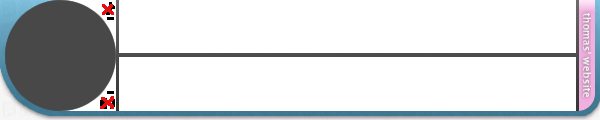
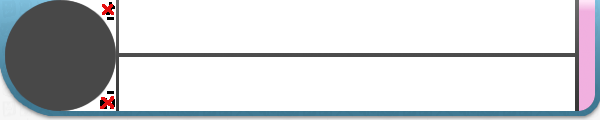
2026 REDESIGN PART 3. OKAY I AM DILLY DALLYING TOO MUCH HELP

Changed region(s): [[0.96, 0.1, 0.99, 0.45], [0.96, 0.475, 0.99, 0.8]]

diff --git a/blog/index.html b/blog/index.html
@@ -1,7 +1,7 @@
 <!DOCTYPE html>
 <html lang="en">
   <head>
-    <title>Blog - Thomas' Website</title>
+    <title>Blog</title>
     <link rel="stylesheet" href="../css/pool.css">
     <bgsound src="../midi/blog.mid" loop="-1"></bgsound>
     <meta id="music" name="music" content="../js/blog.mp3"/>
@@ -21,9 +21,6 @@
   <body>
     <div class="eated">
       <div id="oldheader" class="oldheader">
-        <div id="oldtitle" class="oldtitle">
-          <h1>Thomas' Website</h1>
-        </div>
         <table id="oldquicklinks" class="oldquicklinks">
           <tbody>
             <tr>
@@ -77,12 +74,23 @@
           <tbody>
             <tr>
               <td class="blog">
-                <h2>TEST POST PLEASE IGNORE 2: Lunatea's Veil</h2>
-                <h4>Posted on 04/05/2026</h4>
+                <h2>TEST POST PLEASE IGNORE 3: Oh God I Haven't Really Touched The New Navbar And Footer Please Help</h2>
+                <h4>Posted on 15/05/2026</h4>
                 <hr>
-                <p>Well, hello again. This is a test of the 2nd blog post. Woaw!!! For the record, I'm using the DD/MM/YYYY format for my dates in this blog. Okay. I haven't changed much on this site with part 2 of the redesign, but if you have the new navbar enabled you may have noticed that the items are slowly moving into place. Yay!</p>
+                <p>I'm back. Again. Part 3 of the redesign that's been cooking for a bit and... nothing really changed??? Oh well. Now it's time to talk about something about me instead of this stupid site. This is <strong>MY</strong> blog after all. That's right... you get to read about <strong>MY</strong> specific thoughts on things!!!!!!! <strong>MWAHAHAHHAHAHAHA!!!!!!!!</strong></p>
                 <br/>
-                <p>In the future, I will add links to old blog posts instead of having them all in one page. I don't want this to get bloated in length like the reviews page... sorry for anyone on older browsers who try to visit that page! I'll update the reviews page to use the new seperate page format as well... after I do that to the blog page.</p>
+                <hr>
+                <br/>
+                <p>Now, let's talk about <strong>HORSES</strong>... or more specifically a certain TV series named "My Little Pony: Friendship is Magic". I watched through the entire series with a <a target="blank" href="https://endercatcore.neocities.org/main/">friend of mine (that also happened to be a pony)</a>. Wow. I sat there and watched all 222 episodes... including the movie and the 2 specials. What did I think about it? Oh I dont know... it's my favourite TV show of all time.</p>
+                <br/>
+                <p>Now I know a minority of you may be saying... "This Very Normal Pool Toy Shark Really Likes A Show That's Targeted Towards A Younger Age Demographic Than Themself. Okay." and to that I say... <strong>I DON'T CARE. I LIKE MY SILLY HORSE SHOW WITH THE FUNNY PINK HORSEY. I BOUGHT TWO PINKIE PIE PLUSHIES BECAUSE OF THIS SHOW AND I'M PROUD OF IT. OKAY???????</strong></p>
+                <br/>
+                <p>Overall... I require more horse show. Please. <strong>PLEASE. I NEED MORE. I NEED MORE. I'M DESPERATE. I'VE BEEN WATCHING SO MUCH FANMADE ANIMATIONS AND PLAYING FANGAMES. PLEASE. I REQUIRE MORE HORSEYS. PLEASE.</strong> At the time of writing, I haven't watched any other official horse stuff like Equestria Girls, G4.5 and G5 yet. I'll get to it soonish.</p>
+                <br/>
+                <hr>
+                <br/>
+                <p>Now that you've seen me ramble about horseys... you've earnt a prize for doing so! What is it? Oh I don't know, the first VIDEO made for this blog. That's right! You get to see 3 clips of me suffering in certain segments of Sonic Unleashed. How fun! Click on the image to OBSERVE the video.</p>
+                <a download style="color: cornflowerblue; text-decoration: underline;" href="assets/3/owie.mp4"><img style="width: 525px" src="assets/3/owie.png" title="Click here to observe my failures at playing Sonis On A Leash" alt="Click here to observe my failures at playing Sonis On A Leash"></a>
               </td>
             </tr>
           </tbody>
@@ -91,6 +99,16 @@
         <img src="../img/sections/pbp_section.png" title="Previous Blog Posts" alt="Previous Blog Posts">
         <table class="blogs" cellspacing="0">
           <tbody>
+            <tr>
+              <td class="blog">
+                <h2>TEST POST PLEASE IGNORE 2: Lunatea's Veil</h2>
+                <h4>Posted on 04/05/2026</h4>
+                <hr>
+                <p>Well, hello again. This is a test of the 2nd blog post. Woaw!!! For the record, I'm using the DD/MM/YYYY format for my dates in this blog. Okay. I haven't changed much on this site with part 2 of the redesign, but if you have the new navbar enabled you may have noticed that the items are slowly moving into place. Yay!</p>
+                <br/>
+                <p>In the future, I will add links to old blog posts instead of having them all in one page. I don't want this to get bloated in length like the reviews page... sorry for anyone on older browsers who try to visit that page! I'll update the reviews page to use the new seperate page format as well... after I do that to the blog page.</p>
+              </td>
+            </tr>
             <tr>
               <td class="blog">
                 <h2>TEST POST PLEASE IGNORE</h2>
@@ -104,7 +122,7 @@
                 <table>
                   <tr>
                     <td>
-                        <a href="img/1/websiteconcept.png"><img class="render" src="img/1/websiteconcept.png" title="Website Concept Art" alt="Website Concept Art"></a>
+                        <a href="assets/1/websiteconcept.png"><img class="render" src="assets/1/websiteconcept.png" title="Website Concept Art" alt="Website Concept Art"></a>
                     </td>
                     <td>
                       <p>Just like what I did with The OS Simulation Project's website, I drew a concept for the design, which you can see on the left.</p>
@@ -130,7 +148,7 @@
                       <p>Before this site update, I never used them that much publicly, or at all. Why? I was scared of being called weird or cringe. I don't know!</p>
                     </td>
                     <td>
-                      <a href="img/1/idiot.gif"><img class="render" src="img/1/idiot.gif" title="idiot" alt="idiot"></a>
+                      <a href="assets/1/idiot.gif"><img class="render" src="assets/1/idiot.gif" title="idiot" alt="idiot"></a>
                     </td>
                   </tr>
                 </table>
@@ -139,8 +157,8 @@
                 <br/>
                 <p>I'm not sure what else to write here so... have a real life photo of me, and also a photo of me in Klonoa 2.</p>
                 <br />
-                <a href="img/1/real_hd.png"><img style="width: 525px" src="img/1/real.png" title="this is me in real life (True)" alt="this is me in real life (True)"></a>
-                <a href="img/1/kl2_hd.png"><img style="width: 525px" src="img/1/kl2.png" title="this is me in Klonoa 2 (Wow)" alt="this is me in Klonoa 2 (Wow)"></a>
+                <a href="assets/1/real_hd.png"><img style="width: 525px" src="assets/1/real.png" title="this is me in real life (True)" alt="this is me in real life (True)"></a>
+                <a href="assets/1/kl2_hd.png"><img style="width: 525px" src="assets/1/kl2.png" title="this is me in Klonoa 2 (Wow)" alt="this is me in Klonoa 2 (Wow)"></a>
                 <br/>
                 <br/>
                 <hr>

diff --git a/aboutme/index.html b/aboutme/index.html
@@ -1,7 +1,7 @@
 <!DOCTYPE html>
 <html lang="en">
   <head>
-    <title>About Me - Thomas' Website</title>
+    <title>About Me</title>
     <link rel="stylesheet" href="../css/pool.css">
     <bgsound src="../midi/aboutme.mid" loop="-1"></bgsound>
     <meta id="music" name="music" content="../js/aboutme.mp3"/>
@@ -21,9 +21,6 @@
   <body>
     <div class="eated">
       <div id="oldheader" class="oldheader">
-        <div id="oldtitle" class="oldtitle">
-          <h1>Thomas' Website</h1>
-        </div>
         <table id="oldquicklinks" class="oldquicklinks">
           <tbody>
             <tr>
@@ -73,11 +70,12 @@
       </div>
       <div id="yotloop" class="main">
         <img src="../img/sections/ame_section.png" title="About Me" alt="About Me">
+        <p>You want to learn about me for some reason? Okay then.</p>
         <table>
           <tbody>
             <tr>
               <td>
-                  <p>I'm Thomas. I'm 19 and from Australia. I have Autism and ADHD. I'm also a pool toy shark furry thing. Wow!</p>
+                  <p>I'm 19 and from Australia. I have Autism and ADHD. I'm also a pool toy shark furry thing. Wow!</p>
                   <br />
                   <p>I really like using computers and technology. I also like tinkering and messing with hardware, and modding consoles.</p>
                   <br />
@@ -125,16 +123,20 @@
           <li>Mario and Luigi: Bowser's Inside Story</li>
           <li>Super Mario Galaxy</li>
           <li>Marble Blast Ultra</li>
+          <li>Sonic Unleashed</li>
+          <li>Um Jammer Lammy</li>
           <li>Minecraft: Wii U Edition</li>
           <li>Mario Party DS</li>
           <li>Minecraft: Pocket Edition (alpha 0.5.0)</li>
           <li>Mario Kart Wii</li>
           <li>Puzzle Prism (iOS/Android)</li>
+          <li>Parappa the Rapper</li>
           <li>Pikmin 3</li>
           <li>LEGO Dimensions</li>
           <li>Yo-kai Watch 2</li>
           <li>Mario and Luigi: Partners in Time</li>
           <li>Mario Party: Island Tour</li>
+          <li>Parappa the Rapper 2</li>
           <li>Sonic 3D: Flickies' Island</li>
           <li>The LEGO Movie Videogame</li>
           <li>Mr. AahH!!</li>
@@ -165,21 +167,28 @@
           <li>WALL-E</li>
           <li>Chell (Portal)</li>
           <li>Sonic the Hedgehog</li>
+          <li>Pinkie Pie (MLP: FiM)</li>
           <li>Susie (DELTARUNE)</li>
           <li>Sniper (Team Fortress 2)</li>
+          <li>Trixie (MLP: FiM)</li>
+          <li>Maud</li>
           <li>Spy (Team Fortress 2)</li>
+          <li>Kris (DELTARUNE)</li>
           <li>Jibanyan</li>
+          <li>Starlight Glimmer</li>
+          <li>Ralsei (DELTARUNE)</li>
+          <li>Lammy (Um Jammer Lammy)</li>
           <li>Rayman</li>
+          <li>Maud (MLP: FiM)</li>
           <li>Jesse (Minecraft: Story Mode)</li>
           <li>Gordon Freeman</li>
+          <li>Noelle (DELTARUNE)</li>
           <li>Tails (Sonic the Hedgehog)</li>
           <li>Whisper (Yo-kai Watch)</li>
           <li>Yoshi</li>
           <li>Joanna Dark</li>
-          <li>Pinkie Pie</li>
+          <li>Fluttershy</li>
         </ul>
-        <br />
-        <p>Oh right, can't forget about stuff other than technology too...</p>
         <br />
         <h4>Favourite Movies</h4>
         <ul>
@@ -199,7 +208,7 @@
         <br />
         <h4>Favourite TV Shows</h4>
         <ul>
-          <li>My Little Pony</li>
+          <li>My Little Pony: Friendship is Magic</li>
           <li>Yo-kai Watch</li>
         </ul>
         <br>

diff --git a/reviews/index.html b/reviews/index.html
@@ -1,7 +1,7 @@
 <!DOCTYPE html>
 <html lang="en">
   <head>
-    <title>Reviews - Thomas' Website</title>
+    <title>Reviews</title>
     <link rel="stylesheet" href="../css/pool.css">
     <bgsound src="../midi/reviews.mid" loop="-1"></bgsound>
     <meta id="music" name="music" content="../js/reviews.mp3"/>
@@ -21,9 +21,6 @@
   <body>
     <div class="eated">
       <div id="oldheader" class="oldheader">
-        <div id="oldtitle" class="oldtitle">
-          <h1>Thomas' Website</h1>
-        </div>
         <table id="oldquicklinks" class="oldquicklinks">
           <tbody>
             <tr>
@@ -77,13 +74,13 @@
           <tbody>
             <tr class="review">
               <td class="left">
-                <h3>Rayman: 30th Anniversary Edition (Switch)</h3>
-                <h4>Ubisoft</h4>
-                <p>I have been waiting for anything Rayman related for a long time... and I'm very disappointed. The music has completely been switched out with a new soundtrack... but it just sounds wrong and off-putting. The "remixes" and ambience tracks are alright... I guess. I really wish there was an option to just use the original soundtrack. The Atari Jaguar, PS1, DOS, GBC and GBA versions are included, alongside other Rayman DOS games and a SNES prototype that has been released before. The PS1 version has widescreen and some cheats available to use, which is something I guess. The Atari Jaguar version is completely broken and plays the original music AND the new music at the same time. Since the original music is there, why can't we just toggle it on? The inclusion of documentary stuff is nice... but the music is single handedly making me regret buying this. WHY DIDN'T I BUY THIS ON STEAM!?</p>
+                <h3>Sonic Unleashed (PC)</h3>
+                <h4>SEGA</h4>
+                <p>I've never played any 3D Sonic games, but two of my friends recommended Unleashed and I recently decided to give it a proper shot... and I'm glad I did. I was very suprised with how Just Plain Good Unleashed is, and how long it was. Sonic's boost is difficult to control, but very, VERY fun to master. I personally really, really enjoyed the more laid-back speed the Werehog has though. The game's music and CG cutscenes are absolutely outstanding and suprised me with how high quality they are. I've been listening to the Night tracks a lot. The bosses were fun too and to say the least, I had a lot of fun with this game. The final level extremely suprised me as well, I LOVE platforming gauntlets that fully test your skills you learnt throughout the game (Shoutout to Klonoa 1 & 2 for Doing That Really Really Well). I didn't find the medals annoying to grab and enjoyed revisiting the Night stages a lot. I did have some pain points with regular Sonic's control and some glitches, but overall, I really enjoyed this game and now I'm hooked. I want to play more 3D Sonic. Help.</p>
               </td>
               <td class="right">
-                <p>Reviewed on 14/02/2026</p>
-                <img title="My rating: 1.5/5" alt="My rating: 1.5/5" src="stars/review_3.png">
+                <p>Reviewed on 15/05/2026</p>
+                <img title="My rating: 4.5/5" alt="My rating: 4.5/5" src="stars/review_9.png">
                 <a href="boxart/full/unscanned.png"><img src="boxart/frontonly/unscanned.png"></a>
               </td>
             </tr>
@@ -93,6 +90,18 @@
         <img src="../img/sections/orv_section.png" title="Older Reviews" alt="Older Reviews">
         <table class="reviews" cellspacing="0">
             <tbody>
+              <tr class="review">
+                <td class="left">
+                  <h3>Rayman: 30th Anniversary Edition (Switch)</h3>
+                  <h4>Ubisoft</h4>
+                  <p>I have been waiting for anything Rayman related for a long time... and I'm very disappointed. The music has completely been switched out with a new soundtrack... but it just sounds wrong and off-putting. The "remixes" and ambience tracks are alright... I guess. I really wish there was an option to just use the original soundtrack. The Atari Jaguar, PS1, DOS, GBC and GBA versions are included, alongside other Rayman DOS games and a SNES prototype that has been released before. The PS1 version has widescreen and some cheats available to use, which is something I guess. The Atari Jaguar version is completely broken and plays the original music AND the new music at the same time. Since the original music is there, why can't we just toggle it on? The inclusion of documentary stuff is nice... but the music is single handedly making me regret buying this. WHY DIDN'T I BUY THIS ON STEAM!?</p>
+                </td>
+                <td class="right">
+                  <p>Reviewed on 14/02/2026</p>
+                  <img title="My rating: 1.5/5" alt="My rating: 1.5/5" src="stars/review_3.png">
+                  <a href="boxart/full/unscanned.png"><img src="boxart/frontonly/unscanned.png"></a>
+                </td>
+              </tr>
                 <tr class="review">
                   <td class="left">
                     <h5 class="spoiler">This review contains nondescript spoilers of the finales of both Chapter 3 and Chapter 4. Do not read this review if you plan on playing DELTARUNE.</h5>

diff --git a/css/pool.css b/css/pool.css
@@ -6,27 +6,6 @@ html .foot, html .foot iframe {
 html .navg {
     display: none;
 }
-.oldtitle {
-    width: 600px;
-    height: 50px;
-    height: fit-content;
-    background-color: skyblue;
-    background-image: linear-gradient(#83c6e3,#5299b7);
-    background-image: url('removeonimplement.png');
-}
-
-.oldtitle h1 {
-    margin: 3px;
-    margin-left: 5px;
-    margin-right: 3px;
-    margin-top: 0px;
-    margin-bottom: 0px;
-    padding: 7px;
-    padding-left: 2px;
-    padding-right: 0px;
-    padding-top: 9px;
-    padding-bottom: 0px;
-}
 
 .oldquicklinks {
     width: 600px;

diff --git a/extras/index.html b/extras/index.html
@@ -1,7 +1,7 @@
 <!DOCTYPE html>
 <html lang="en">
   <head>
-    <title>Extras - Thomas' Website</title>
+    <title>Extras</title>
     <link rel="stylesheet" href="../css/pool.css">
     <bgsound src="../midi/extras.mid" loop="-1"></bgsound>
     <meta id="music" name="music" content="../js/extras.mp3"/>
@@ -21,9 +21,6 @@
   <body>
     <div class="eated">
       <div id="oldheader" class="oldheader">
-        <div id="oldtitle" class="oldtitle">
-          <h1>Thomas' Website</h1>
-        </div>
         <table id="oldquicklinks" class="oldquicklinks">
           <tbody>
             <tr>
@@ -104,8 +101,8 @@
             </tr>
             <tr>
                 <td>
-                  <a target="_blank" href="https://endercatcore.neocities.org/"><img alt="EnderCatCore" title="EnderCatCore" src="../img/badges/endercatcore.gif"></a>
-                  <a target="_blank" href="https://angrybirdsfanboy06.github.io/"><img alt="Fanboy" title="Fanboy" src="../img/badges/fanboy.gif"></a>
+                  <a target="_blank" href="https://endercatcore.neocities.org"><img alt="EnderCatCore" title="EnderCatCore" src="../img/badges/endercatcore.gif"></a>
+                  <a target="_blank" href="https://fanboy.cz"><img alt="Fanboy" title="Fanboy" src="../img/badges/fanboy.gif"></a>
                 </td>
             </tr>
             <tr>

diff --git a/creations/index.html b/creations/index.html
@@ -1,7 +1,7 @@
 <!DOCTYPE html>
 <html lang="en">
   <head>
-    <title>Creations - Thomas' Website</title>
+    <title>Creations</title>
     <link rel="stylesheet" href="../css/pool.css">
     <bgsound src="../midi/creations.mid" loop="-1"></bgsound>
     <meta id="music" name="music" content="../js/creations.mp3"/>
@@ -21,9 +21,6 @@
   <body>
     <div class="eated">
       <div id="oldheader" class="oldheader">
-        <div id="oldtitle" class="oldtitle">
-          <h1>Thomas' Website</h1>
-        </div>
         <table id="oldquicklinks" class="oldquicklinks">
           <tbody>
             <tr>
@@ -131,7 +128,7 @@
           </tbody>
         </table>
         <br />
-        <img src="../img/sections/t2d_section.png" title="SUPER THOMAS 64 2" alt="SUPER THOMAS 64 2">
+        <img src="../img/sections/t2d_section.png" title="ST642 (working title)" alt="ST642 (working title)">
         <p>A sequel to my first ever (and unreleased) romhack. PAL only and requires the 64DD after a certain point. This hack is too unfinished to show here... and I've been working on this since 2024. Oh no.</p>
       </div>
       <div id="feeter" class="foot">

diff --git a/collection/index.html b/collection/index.html
@@ -1,7 +1,7 @@
 <!DOCTYPE html>
 <html lang="en">
   <head>
-    <title>Collection - Thomas' Website</title>
+    <title>Collection</title>
     <link rel="stylesheet" href="../css/pool.css">
     <bgsound src="../midi/collection.mid" loop="-1"></bgsound>
     <meta id="music" name="music" content="../js/collection.mp3"/>
@@ -21,9 +21,6 @@
   <body>
     <div class="eated">
       <div id="oldheader" class="oldheader">
-        <div id="oldtitle" class="oldtitle">
-          <h1>Thomas' Website</h1>
-        </div>
         <table id="oldquicklinks" class="oldquicklinks">
           <tbody>
             <tr>

diff --git a/index.html b/index.html
@@ -1,7 +1,7 @@
 <!DOCTYPE html>
 <html lang="en">
   <head>
-    <title>Thomas' Website</title>
+    <title>Home</title>
     <link rel="stylesheet" href="css/pool.css">
     <bgsound src="midi/home.mid" loop="-1"></bgsound>
     <meta id="music" name="music" content="js/home.mp3"/>
@@ -21,9 +21,6 @@
   <body>
     <div class="eated">
       <div id="oldheader" class="oldheader">
-        <div id="oldtitle" class="oldtitle">
-          <h1>Thomas' Website</h1>
-        </div>
         <table id="oldquicklinks" class="oldquicklinks">
           <tbody>
             <tr>

diff --git a/js/music.js b/js/music.js
@@ -94,7 +94,7 @@ function initEffects() {
         }
         if (naviGAYtionbar && musicDir) {
             var sfx_select = createAudio("sfx_select",musicDir+"select.mp3");
-            var sfx_back = createAudio("sfx_back",musicDir+"back.mp3");
+            var sfx_back = createAudio("sfx_leavesite",musicDir+"leavesite.mp3");
             var sfx_soundon = createAudio("sfx_soundon",musicDir+"soundon.mp3");
             var sfx_hover = createAudio("sfx_hover",musicDir+"hover.mp3");
             if (naviGAYtionbar) {